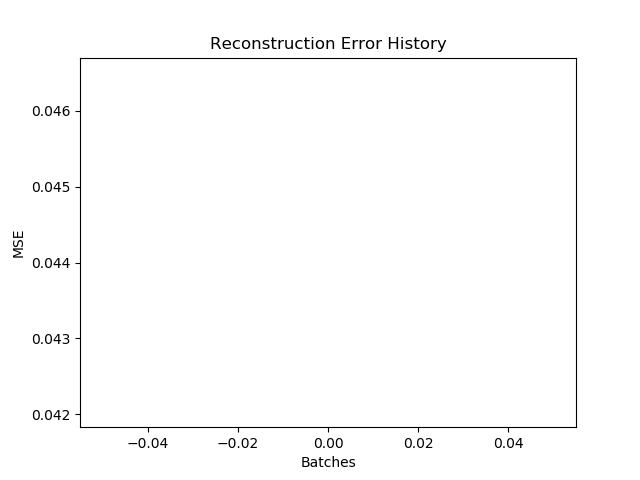
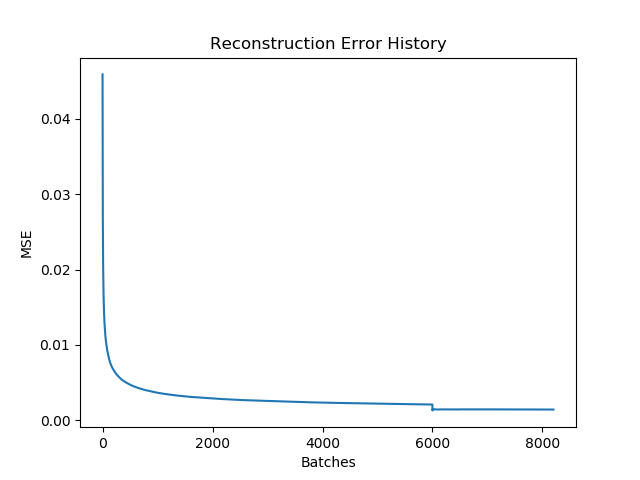
[training] minor l1 loss change

diff --git a/AUX/DictionaryTraining.py b/AUX/DictionaryTraining.py
@@ -55,7 +55,7 @@ def trainDictionary(train_loader, test_loader, sigLen, codeLen, datName,
       learnRateDecay: scales learnRate every lrdFreq batches, i.e.
         epoch_LR = learnRate*(learnRateDecay**(epoch-1))
       fistaIters : number of iterations to run FISTA when generating epoch codes
-      useL1Loss : set to false to forget sparsity requirement (or set l1w=0)
+      useL1Loss : set to True to penalize sparsity of network output (BUGGY)
       l1w : the L1-norm weight, balances data fidelity with sparsity
       useCUDA : set to true for GPU acceleration
       imSave : boolean determines whether to save images
@@ -145,10 +145,10 @@ def trainDictionary(train_loader, test_loader, sigLen, codeLen, datName,
           # loss
           reconErr   = mseLoss(Y_est,Y)
           if useL1Loss:
-              l1Loss  = Y_est.norm(1)/ (X.size(0) * X.size(1) )
+            l1Loss  = Y_est.norm(1) / X.size(0)
          
       ## BACKWARD PASS
-          batchLoss = reconErr + l1w * l1Loss # need to divide by batchsize here?
+          batchLoss = reconErr + l1w * l1Loss
           batchLoss.backward()
           OPT.step()
           scheduler.step()

diff --git a/AUX/class_dict.py b/AUX/class_dict.py
@@ -67,7 +67,11 @@ class dictionary(nn.Module):
     def normalizeAtoms(self):
         for a in range(0,self.n):
             atom = self.atoms.weight.data[:,a]
-            atom = atom/atom.norm()
+            aNorm = atom.norm()
+            if aNorm < 1e-7:
+                atom *= 0
+            else:
+                atom /= aNorm
             self.atoms.weight.data[:,a]=atom
             
 # Find Maximum Eigenvalue using Power Method
